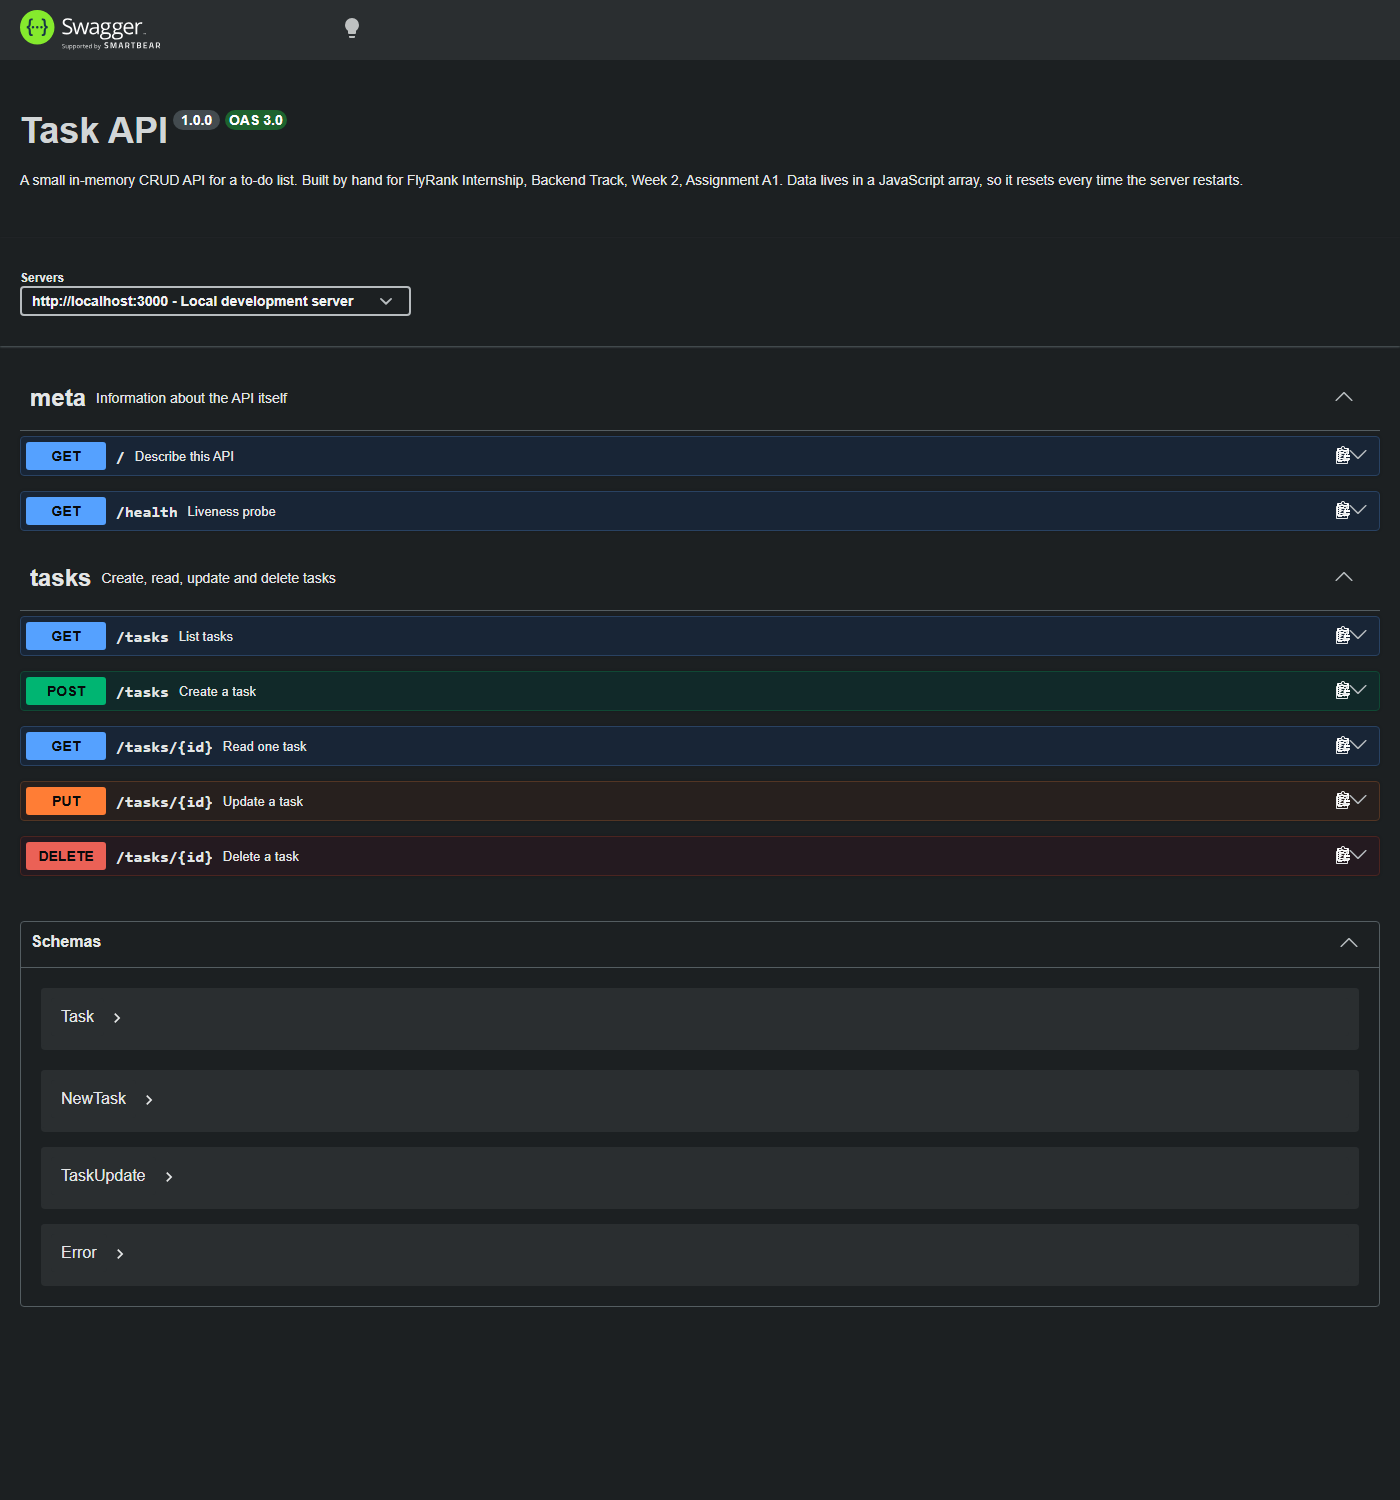
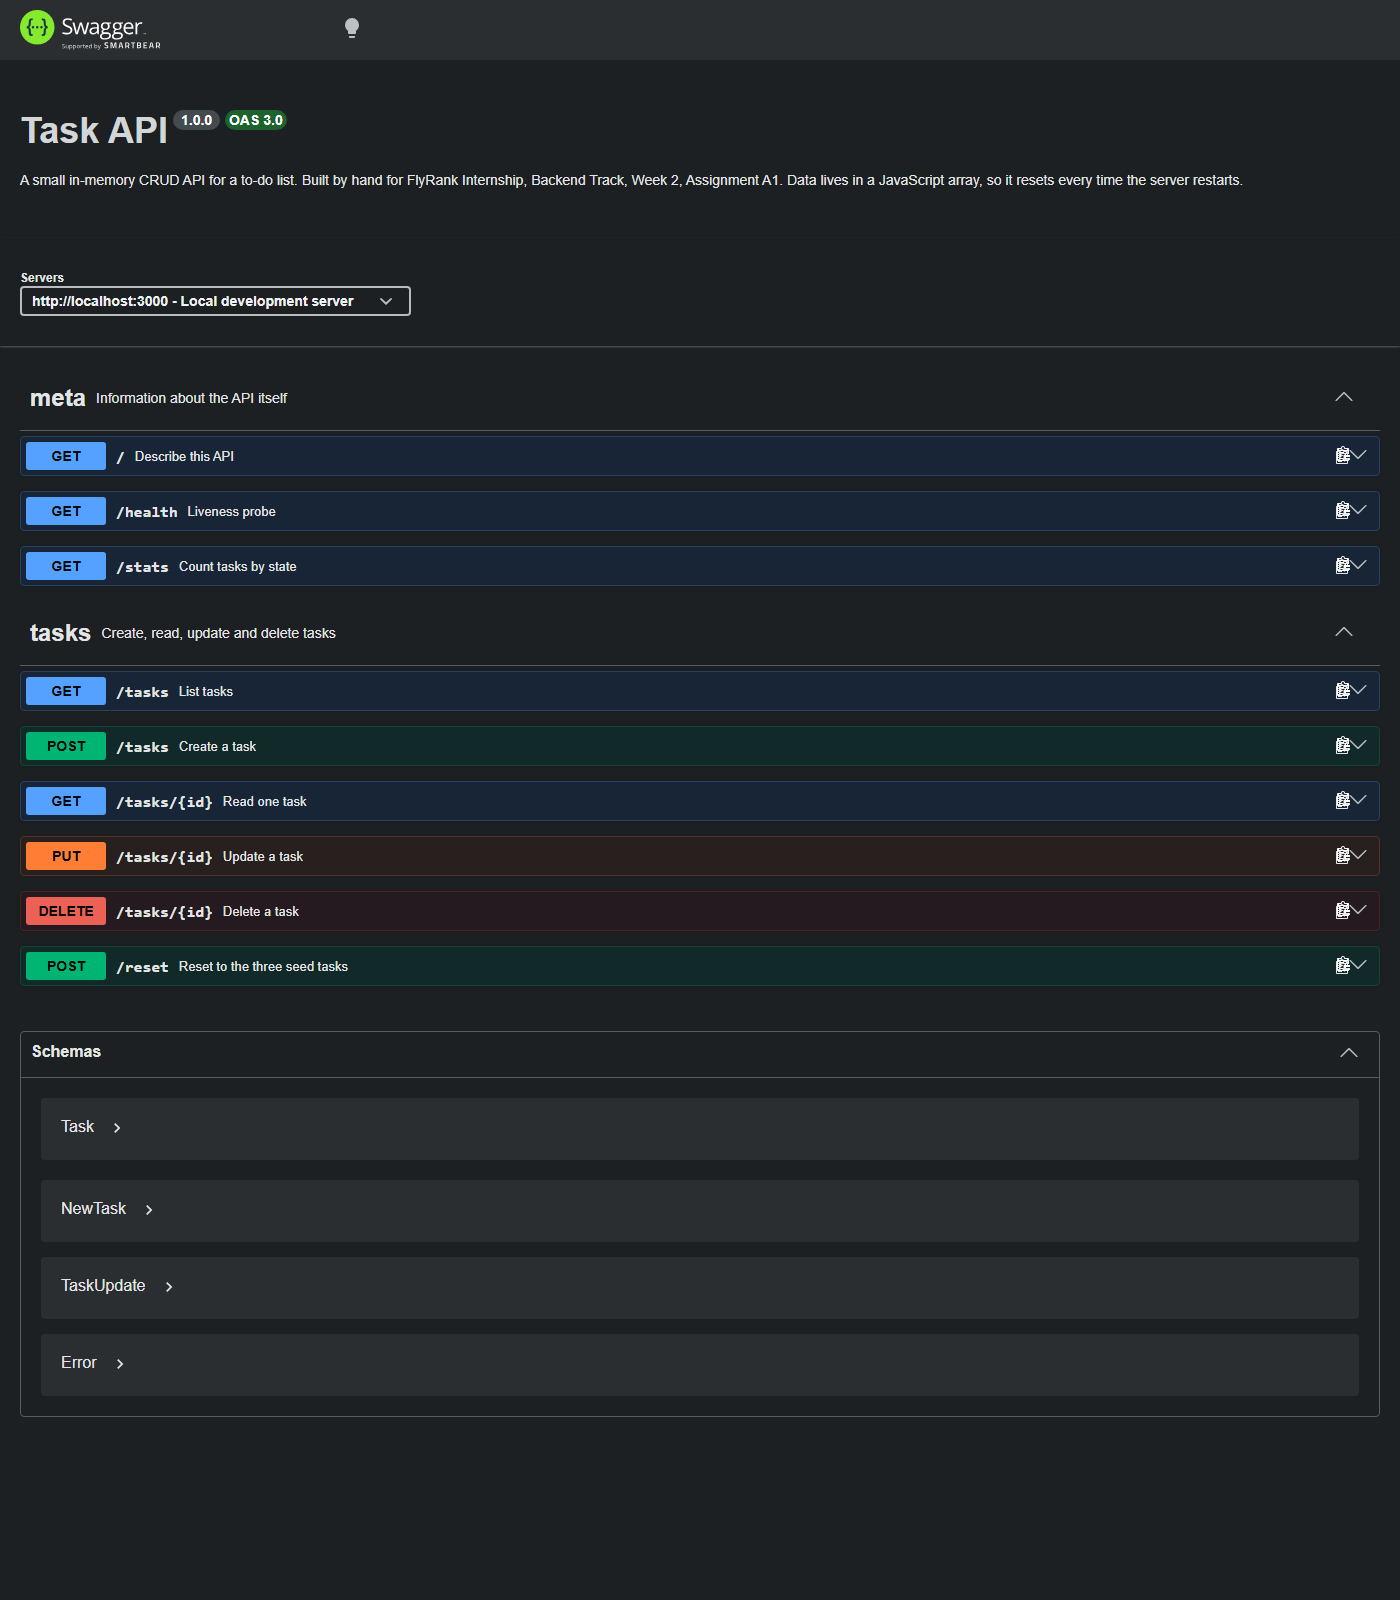
Extras: query filter, search, pagination, /stats and /reset

diff --git a/index.js b/index.js
@@ -95,13 +95,67 @@ app.get("/health", (req, res) => {
   res.json({ status: "ok" });
 });
 
+// Extras - the server computes an answer instead of just handing back storage.
+app.get("/stats", (req, res) => {
+  const done = tasks.filter((task) => task.done).length;
+  res.json({
+    total: tasks.length,
+    done,
+    open: tasks.length - done,
+  });
+});
+
 // ---------------------------------------------------------------------------
 // Stage 2 - Read.
 // ---------------------------------------------------------------------------
 
-// List every task.
+// List tasks. Query parameters filter, search and paginate - they never
+// identify a resource, which is why they live after the "?" and not in the path.
 app.get("/tasks", (req, res) => {
-  res.json(tasks);
+  const { done, search, limit, offset } = req.query;
+  let result = tasks;
+
+  // ?done=true / ?done=false
+  if (done !== undefined) {
+    if (done !== "true" && done !== "false") {
+      return res
+        .status(400)
+        .json({ error: "Query 'done' must be 'true' or 'false'" });
+    }
+    const wanted = done === "true";
+    result = result.filter((task) => task.done === wanted);
+  }
+
+  // ?search=milk
+  if (search !== undefined) {
+    const needle = String(search).toLowerCase();
+    result = result.filter((task) =>
+      task.title.toLowerCase().includes(needle)
+    );
+  }
+
+  // ?limit=2&offset=2 - real APIs never promise to return "everything".
+  let start = 0;
+  if (offset !== undefined) {
+    if (!/^\d+$/.test(offset)) {
+      return res
+        .status(400)
+        .json({ error: "Query 'offset' must be a non-negative integer" });
+    }
+    start = Number(offset);
+  }
+
+  let end = result.length;
+  if (limit !== undefined) {
+    if (!/^\d+$/.test(limit) || Number(limit) === 0) {
+      return res
+        .status(400)
+        .json({ error: "Query 'limit' must be a positive integer" });
+    }
+    end = start + Number(limit);
+  }
+
+  res.json(result.slice(start, end));
 });
 
 // Read one task. `:id` is a path parameter - the changing piece of the URL.
@@ -197,6 +251,13 @@ app.delete("/tasks/:id", (req, res) => {
 
   // 204 No Content - it worked, and there is nothing left to say.
   res.status(204).send();
+});
+
+// Extras - throw the list away and put the three seed tasks back.
+app.post("/reset", (req, res) => {
+  tasks = SEED_TASKS.map((task) => ({ ...task }));
+  nextId = SEED_TASKS.length + 1;
+  res.json(tasks);
 });
 
 // ---------------------------------------------------------------------------
